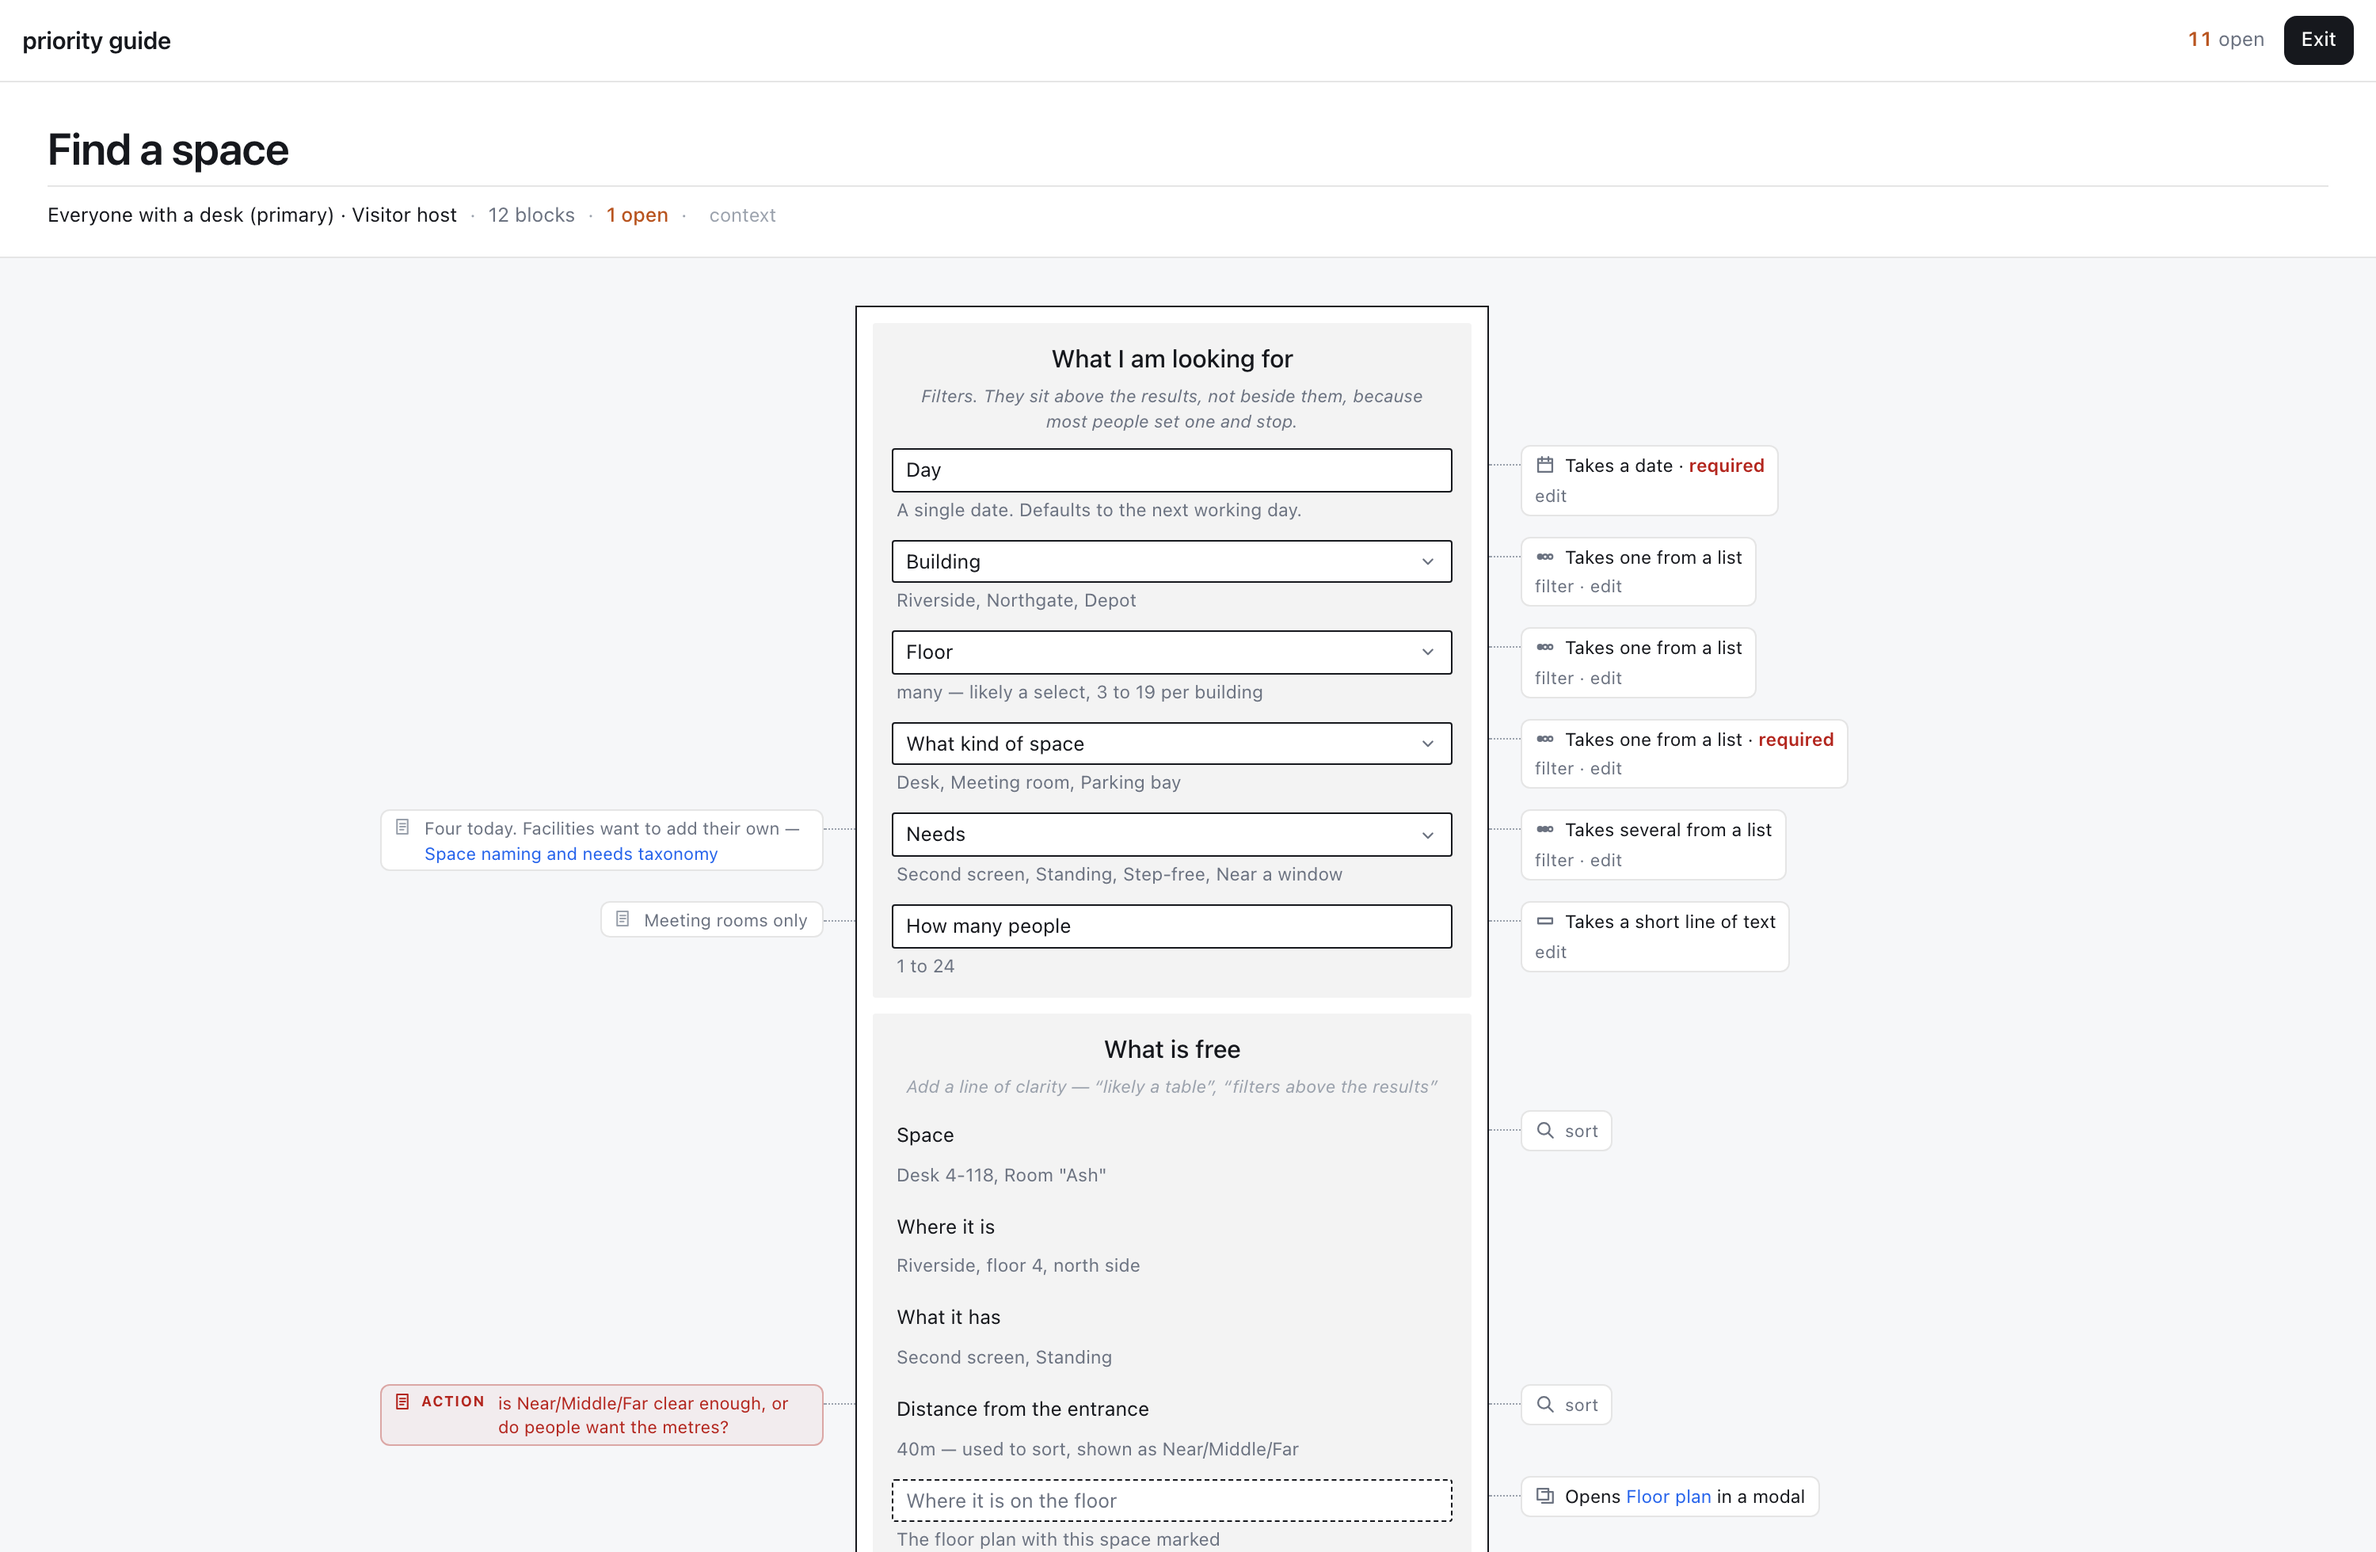
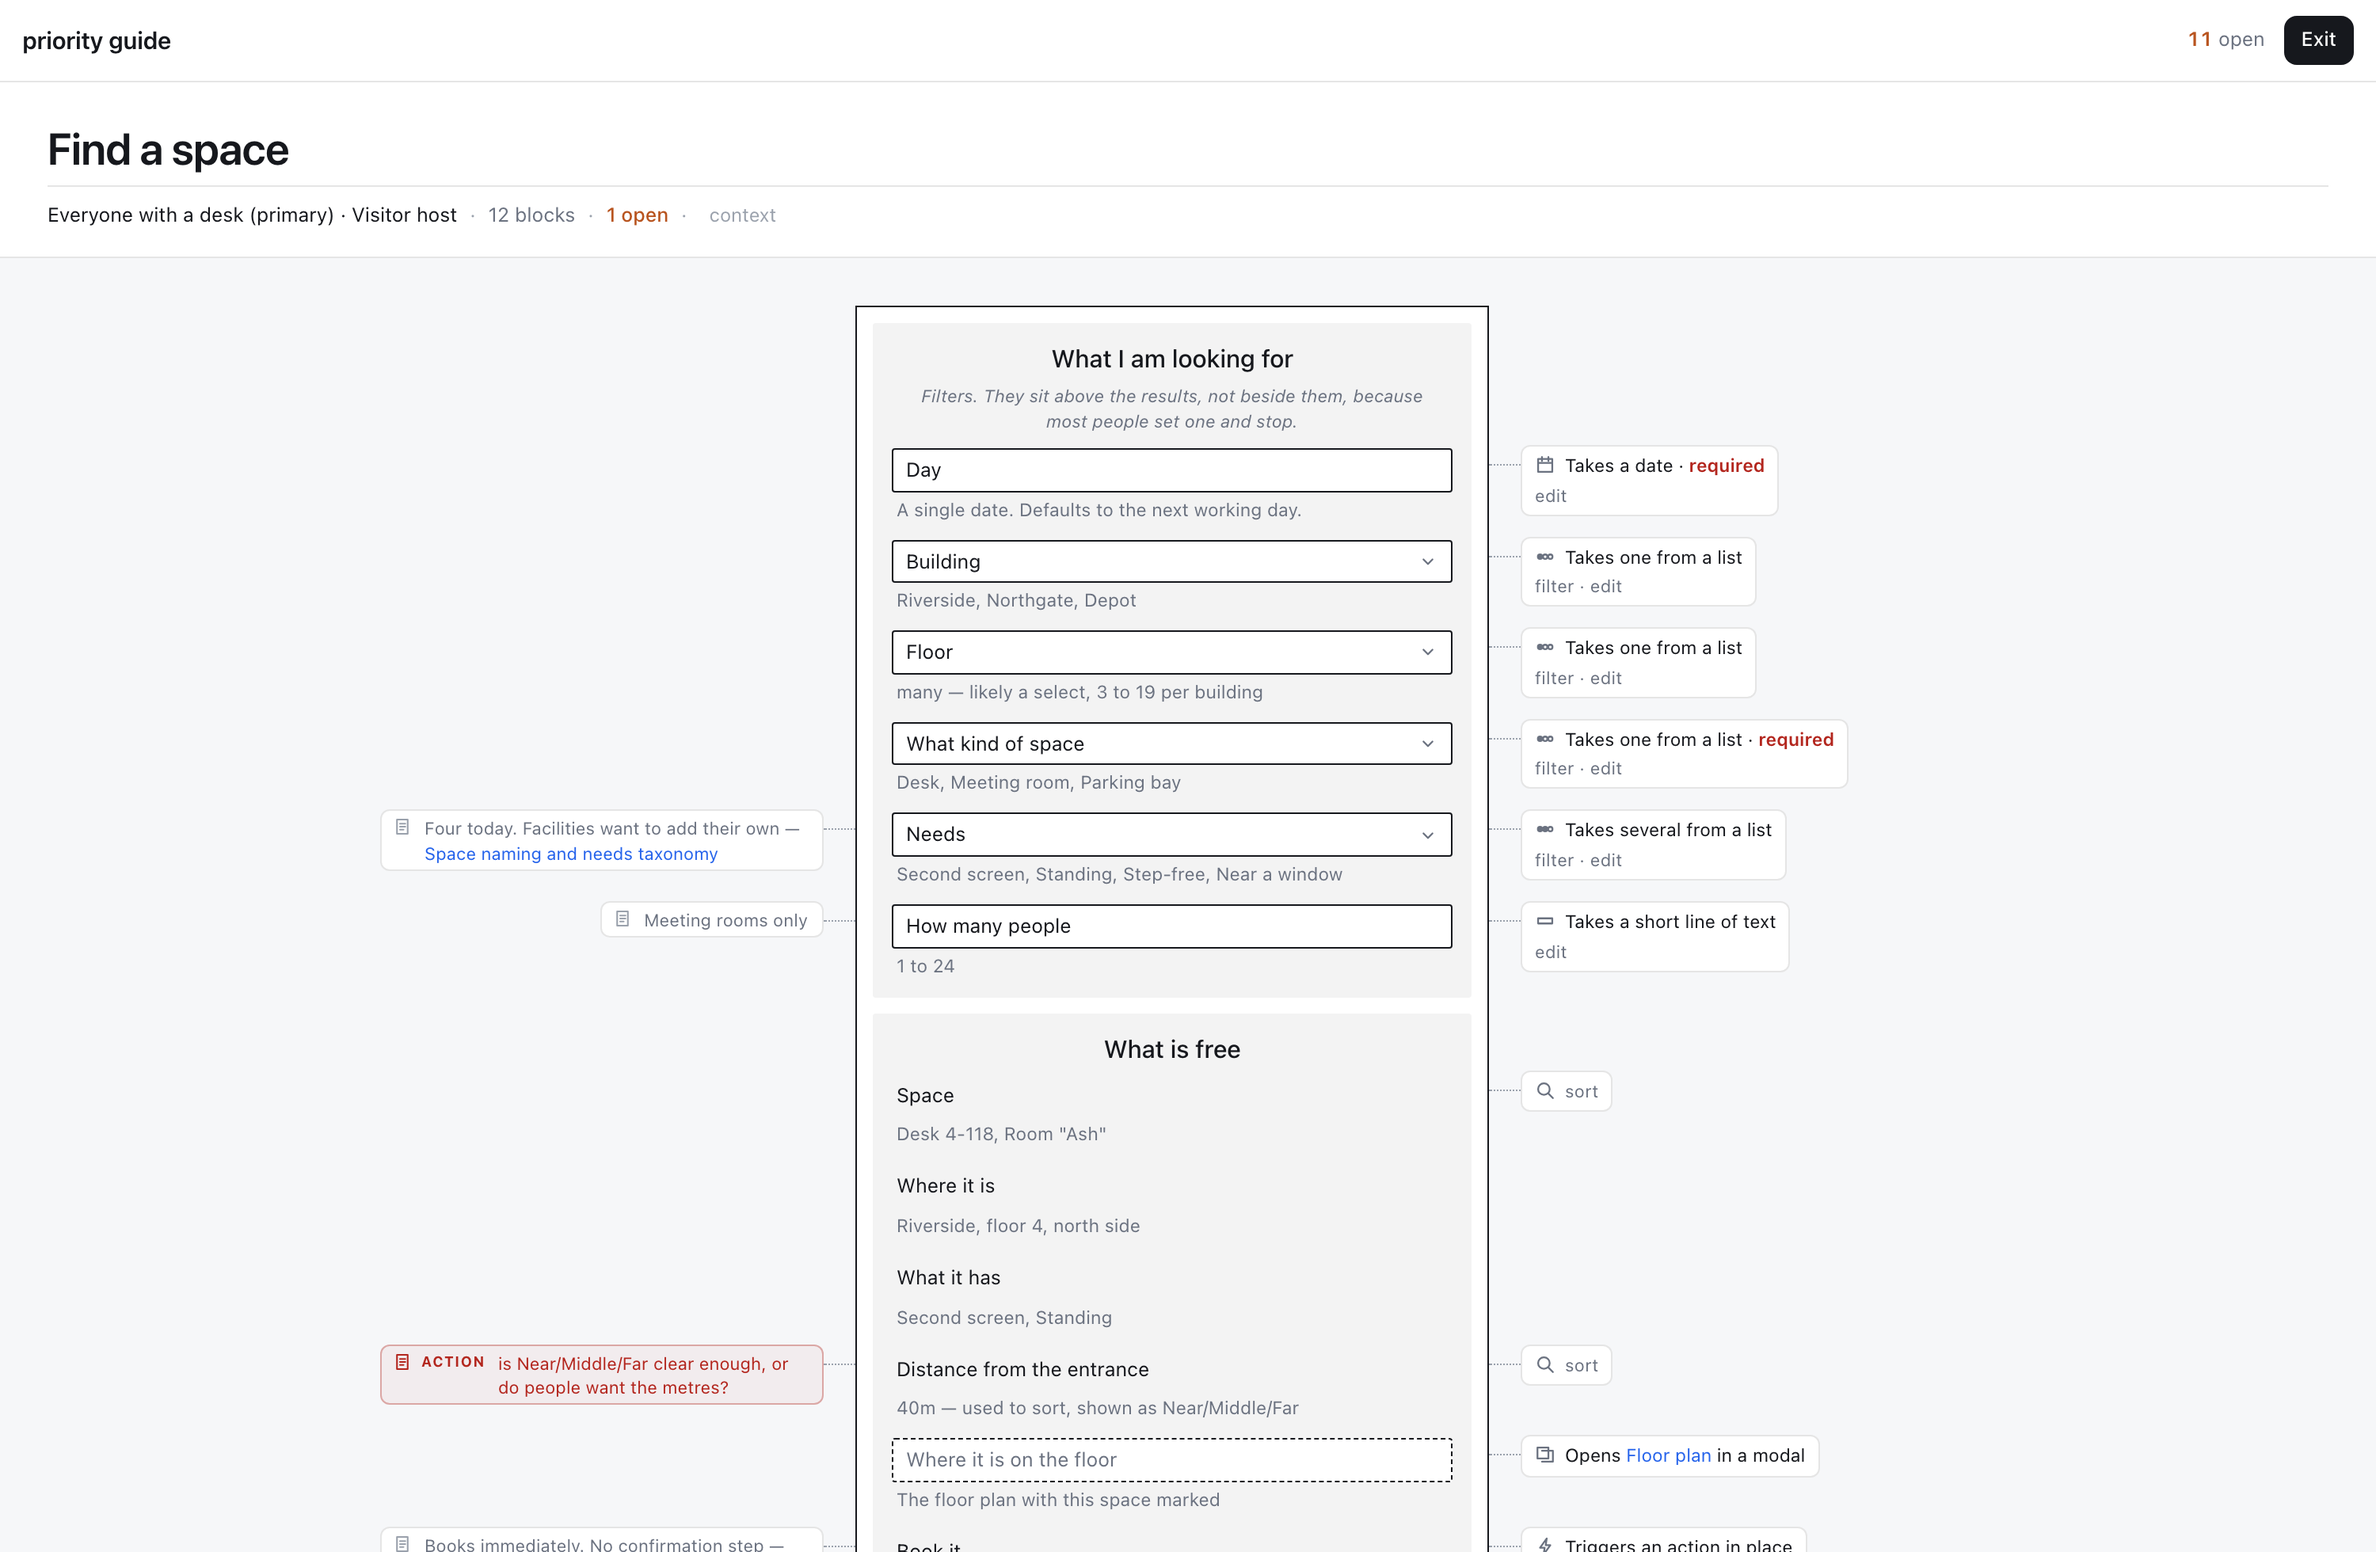
An example is optional, and a normal block says nothing about itself
Flagging a missing example turned the normal state into a defect: most rows on
a real guide are controls and actions with nothing to show, so the guide filled
up with warnings about nothing. The lint is gone, and so is the placeholder
telling you what an example is. A block with no example simply has no line.

Getting to one is a quiet offer on the row you selected, and Tab from the name.
The only thing the app still flags is a visual answer where functionality
belongs, which is a real mistake rather than an empty field.

Also:
- The tools on a note sit outside the card, so revealing them on hover cannot
  reflow the note or push the rest of the row around.
- Adding a block inside a section, rather than only at the end of one: the
  selected row offers "+ block below", Enter does the same the way an outliner
  would, and the toolbar now inserts after the selection instead of appending.

53 parser tests, 123 browser tests.

Claude-Session: https://claude.ai/code/session_01EFxrygDVQa9TN9e8CF7WDN

diff --git a/index.html b/index.html
@@ -182,11 +182,17 @@ body.present .guide{--lane-l:300px; --stack:400px; --lane-r:320px}
 .note .k{flex:none;font-size:9px;font-weight:700;letter-spacing:.07em;color:var(--act);margin-top:1px}
 .note .gl{flex:none;color:var(--faint);margin-top:1px}
 .note.act .gl{color:var(--act)}
-.note .tools{display:none;gap:2px;flex:none;margin-left:2px}
-.note:hover .tools{display:flex}
+.note{position:relative}
+/* Outside the card, so revealing them cannot reflow the note or the row. */
+.note .tools{position:absolute;right:100%;top:1px;margin-right:5px;display:flex;gap:1px;
+  opacity:0;pointer-events:none;transition:opacity .1s var(--ease)}
+.note:hover .tools,.note:focus-within .tools{opacity:1;pointer-events:auto}
 .note .tools button{color:var(--faint);font-size:11px;line-height:1;padding:1px 3px;border-radius:4px}
 .note .tools button:hover{color:var(--ink);background:var(--hover)}
 .note a{color:var(--accent)}
+.rowtools{display:flex;gap:10px;margin-top:3px;padding-left:2px}
+.rowtools button{font-size:11px;color:var(--faint);padding:1px 0}
+.rowtools button:hover{color:var(--ink);text-decoration:underline}
 .addnote{opacity:0;font-size:11px;color:var(--faint);padding:2px 6px;border-radius:6px;
   border:1px dashed var(--line);transition:opacity .12s var(--ease)}
 .lane-l:hover .addnote,.rowsel .addnote{opacity:1}
@@ -1034,10 +1040,11 @@ function renderTools() {
     let tab = tableOf(sec);
     if (!sec) { banner('warn', '<b>Add a section first.</b> Content lives inside one.'); return; }
     if (!tab) { addSection(g, sec.title); tab = tableOf(sec); }
-    const row = addRow(tab, sec, {});
+    const here = S.sel && tab.rows.includes(S.sel) ? tab.rows.indexOf(S.sel) + 1 : tab.rows.length;
+    const row = addRow(tab, sec, { at: here });
     S.sel = row; mark(); render();
     focusSoon('.rowsel .lbl');
-  }, 'A data point, a control, or an action');
+  }, 'A data point, a control, or an action — after the selected block');
 
   tool('lineN', 'Section', () => {
     const sec = addSection(g, 'New section');
@@ -1255,18 +1262,46 @@ function paintRow(row, g, sec, table, rw) {
   // The example is what the data really looks like, so it belongs under the
   // name it belongs to — not off in another lane.
   const cur = rw.realData;
-  if (cur || rw === S.sel) {
+  const makeExample = (value) => {
     const eg = el('div', 'eg');
-    if (isUnknown(cur)) { eg.classList.add('unk'); eg.textContent = cur; }
-    else if (cur) setLinked(eg, cur, g);
-    else blankable(eg, '', 'An example — the real format, or the values');
-    editable(eg, cur, (v) => { rw.realData = v; touchRow(rw, table, sec); });
-    item.appendChild(eg);
+    if (isUnknown(value)) { eg.classList.add('unk'); eg.textContent = value; }
+    else if (value) setLinked(eg, value, g);
+    editable(eg, value, (v) => { rw.realData = v; touchRow(rw, table, sec); });
+    return eg;
+  };
+  if (cur) item.appendChild(makeExample(cur));
+
+  // An example is optional, so its absence says nothing at all. Getting to one
+  // is a quiet offer on the row you have selected, and Tab from the name.
+  const openExample = () => {
+    if (item.querySelector('.eg')) { focusSoon(item.querySelector('.eg')); return; }
+    const eg = makeExample('');
+    const tools = item.querySelector('.rowtools');
+    item.insertBefore(eg, tools || null);
+    focusSoon(eg);
+  };
+  lbl.addEventListener('keydown', (e) => {
+    if (e.key === 'Tab' && !e.shiftKey) { e.preventDefault(); lbl.blur(); openExample(); }
+  });
+
+  if (rw === S.sel && !S.readOnly && !S.present) {
+    const tools = el('div', 'rowtools');
+    if (!cur) {
+      const b = el('button', null, '+ example');
+      b.title = 'What the data really looks like. Optional.';
+      b.onclick = (e) => { e.stopPropagation(); openExample(); };
+      tools.appendChild(b);
+    }
+    const below = el('button', null, '+ block below');
+    below.title = 'Add a block here, not at the end of the section';
+    below.onclick = (e) => { e.stopPropagation(); insertBelow(g, sec, table, rw); };
+    tools.appendChild(below);
+    item.appendChild(tools);
   }
 
-  // Clicking the row opens it: the example line and the add-a-note button
-  // appear. Clicking straight onto text edits that text instead, without a
-  // re-render that would steal the caret.
+  // Clicking the row opens it: its own tools and the add-a-note button appear.
+  // Clicking straight onto text edits that text instead, without a re-render
+  // that would steal the caret.
   if (!S.readOnly && !S.present) {
     const lightSelect = () => {
       if (S.sel === rw) return;
@@ -1607,6 +1642,15 @@ function dropRow(g, row, table, sec, at) {
 /** Nothing is held in a draft any more, but the picker can be open. */
 function commitEditor() { closePop(); }
 function focusEditor() { focusSoon('.rowsel .lbl'); }
+
+/** A new block right after this one, which is what "add here" has to mean. */
+function insertBelow(g, sec, table, rw) {
+  const at = table.rows.indexOf(rw) + 1;
+  const row = addRow(table, sec, { at });
+  S.sel = row; mark(); render();
+  focusSoon('.rowsel .lbl');
+  return row;
+}
 
 // ---------------------------------------------------------------- right panel
 /**
@@ -2348,7 +2392,8 @@ document.addEventListener('keydown', (e) => {
   }
   if (e.key === 'Enter' && S.sel && S.view === 'guide' && !S.readOnly && !S.present) {
     e.preventDefault();
-    S.editing = S.sel; render(); focusEditor();
+    const w = whereIs(S.guide, S.sel);
+    if (w) insertBelow(S.guide, w.tables[w.ti].section, w.tables[w.ti].table, S.sel);
     return;
   }
 

diff --git a/parser.js b/parser.js
@@ -890,11 +890,6 @@ export function lintRow(row) {
   if (row.link.type && !LINK_TYPES.includes(row.link.type)) {
     issues.push({ kind: 'unknown-link', word: row.link.type });
   }
-  // The secondary line is where the real data goes. A block with a link or a
-  // form is a control, not a data point, so it is not expected to carry one.
-  if (row.content.type === 'Text' && !row.realData && !row.link.type && !row.form.type) {
-    issues.push({ kind: 'no-real-data', ask: 'What does this actually look like? An example, or the values.' });
-  }
   return issues;
 }
 

diff --git a/README.md b/README.md
@@ -109,7 +109,7 @@ the ones you do not use, or add your own — an `Owner` column is left untouched
 | Column | What goes in it |
 | --- | --- |
 | **Content** | What the thing is called. Prefix `[Visual]` for an image, chart or map. |
-| **Real data** | The example, shown under the name in the middle: the actual format (`123 N Main St, Clio, MI 48420`), or the values when there are under ten. If there are many, say so — the count is what drives the design. |
+| **Real data** | The example, shown under the name in the middle: the actual format (`123 N Main St, Clio, MI 48420`), or the values when there are under ten. If there are many, say so — the count is what drives the design. **Optional**, and its absence is never flagged. |
 | **Do** | `search`, `filter`, `sort`, `edit` — what the user can do to this specific thing. |
 | **Link** | `type → [[Target]]`. One of `download`, `mailto`, `modal`, `offsite page`, `onsite page`, `trigger`, `upload`, `other`. |
 | **Form** | One of `date picker`, `single line`, `multi line`, `single select`, `multi select`, `other`, plus `required`. |
@@ -128,6 +128,9 @@ note becomes one — and stops being one — in a click.
 **Functionality, never a visual solution.** `single select`, not `dropdown`. If
 you type a visual answer the app says so and asks the question you skipped —
 it never blocks you and never rewrites what you wrote.
+
+That is the only thing it ever flags. A block with no example, no note and no
+functionality is a perfectly normal block, and the app says nothing about it.
 
 ---
 
@@ -183,7 +186,8 @@ that is how markdown reference definitions work.
 | --- | --- |
 | `↑` `↓` | Move the selection |
 | Click | Edit whatever you clicked — a name, an example, a note, a heading |
-| `Enter` | Edit the selected block |
+| `Tab` | From a name, start its example |
+| `Enter` | Add a block right after the selected one |
 | `Alt`+`↑`/`↓` | **Move the block**, crossing into the next group when it runs out |
 | `Alt`+`Shift`+`↑`/`↓` | Move the block straight into the group above or below |
 | `C` | Capture — type a line, `Enter`, next line |
